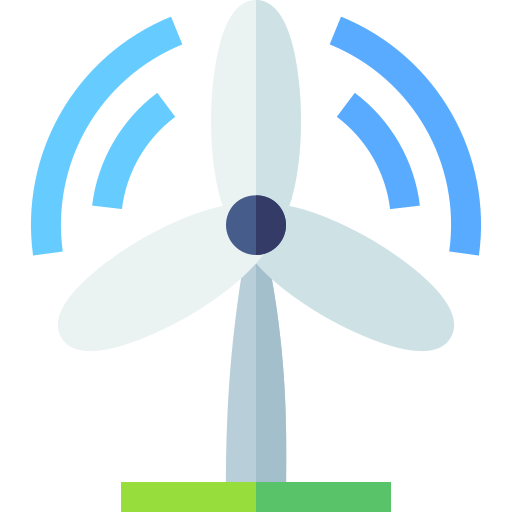
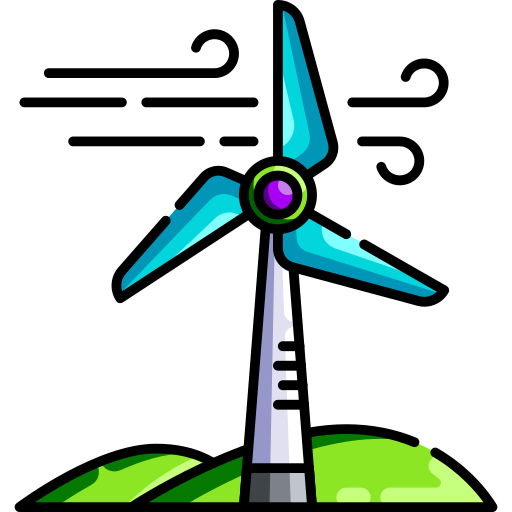
frontend added ListData

diff --git a/frontend/src/components/ListData.js b/frontend/src/components/ListData.js
@@ -1,0 +1,63 @@
+import React from "react";
+import Table from "react-bootstrap/Table";
+
+export default function ListData(props) {
+  return (
+    <>
+      <select>
+        <option>Power Plants</option>
+        <option>Cities</option>
+      </select>
+      <Table striped bordered hover size="sm" variant="dark">
+        <thead>
+          <tr>
+            <th>ID</th>
+            <th>Name</th>
+            <th>Country</th>
+            <th>Primary Fuel</th>
+            <th>Capacity (Megawatts)</th>
+            <th>Latitude</th>
+            <th>Longitude</th>
+          </tr>
+        </thead>
+        <tbody>
+          {props.powerplants.map((powerplant) => (
+            <tr key={powerplant.id}>
+              <td>{powerplant.id}</td>
+              <td>{powerplant.name}</td>
+              <td>{powerplant.country}</td>
+              <td>{powerplant.primary_fuel}</td>
+              <td>{parseFloat(powerplant.capacity_mw)}</td>
+              <td>{powerplant.latitude}</td>
+              <td>{powerplant.longitude}</td>
+            </tr>
+          ))}
+        </tbody>
+      </Table>
+      <Table striped bordered hover size="sm" variant="dark">
+        <thead>
+          <tr>
+            <th>ID</th>
+            <th>Name</th>
+            <th>Country</th>
+            <th>Population</th>
+            <th>Latitude</th>
+            <th>Longitude</th>
+          </tr>
+        </thead>
+        <tbody>
+          {props.cities.map((city) => (
+            <tr key={city.id}>
+              <td>{city.id}</td>
+              <td>{city.name}</td>
+              <td>{city.country}</td>
+              <td>{Math.floor(city.population)}</td>
+              <td>{city.latitude}</td>
+              <td>{city.longitude}</td>
+            </tr>
+          ))}
+        </tbody>
+      </Table>
+    </>
+  );
+}

diff --git a/frontend/src/components/WorldMap.js b/frontend/src/components/WorldMap.js
@@ -1,5 +1,4 @@
 import React from "react";
-import { useState } from "react";
 import {
   MapContainer,
   TileLayer,
@@ -11,19 +10,11 @@ import "leaflet/dist/leaflet.css";
 import PowerPlantMarkers from "./PowerPlantMarkers";
 import CityMarkers from "./CityMarkers";
 import ChangeMapCenter from "./ChangeMapCenter";
-import Legend from "./Legend";
 
 export default function WorldMap(props) {
-  const [map, setMap] = useState(null);
-
   return (
     <>
-      <MapContainer
-        center={props.coordinates}
-        zoom={5}
-        scrollWheelZoom={true}
-        whenCreated={setMap}
-      >
+      <MapContainer center={props.coordinates} zoom={5} scrollWheelZoom={true}>
         <ChangeMapCenter center={props.coordinates} zoom={5} />
         <TileLayer
           attribution='&copy; <a href="https://www.openstreetmap.org/copyright">OpenStreetMap</a> contributors'
@@ -33,16 +24,15 @@ export default function WorldMap(props) {
         <LayersControl position="topright">
           <LayersControl.Overlay name="Power Plants">
             <LayerGroup>
-              <PowerPlantMarkers country={props.location} />
+              <PowerPlantMarkers powerplants={props.powerplants} />
             </LayerGroup>
           </LayersControl.Overlay>
           <LayersControl.Overlay name="Cities">
             <LayerGroup>
-              <CityMarkers country={props.location} />
+              <CityMarkers cities={props.cities} />
             </LayerGroup>
           </LayersControl.Overlay>
         </LayersControl>
-        <Legend map={map} />
       </MapContainer>
     </>
   );

diff --git a/frontend/src/App.js b/frontend/src/App.js
@@ -1,10 +1,15 @@
 import "./App.css";
-import { useState, useRef } from "react";
+import { useState, useRef, useEffect } from "react";
+import axios from "axios";
 import WorldMap from "./components/WorldMap";
+import ListData from "./components/ListData";
 
 function App() {
   const [location, setLocation] = useState("AUS");
   const [coordinates, setCoordinates] = useState([-27, 133]);
+  const [cities, setCities] = useState([]);
+  const [powerplants, setPowerplants] = useState([]);
+
   const inputRef = useRef(null);
 
   const handleClick = () => {
@@ -16,12 +21,26 @@ function App() {
     setCoordinates([coordinates.latitude, coordinates.longitude]);
   };
 
+  useEffect(() => {
+    axios
+      .get(`http://localhost:8000/api/cities/?search=${location}`)
+      .then((response) => setCities(response.data));
+
+    axios
+      .get(`http://localhost:8000/api/powerplants/?search=${location}`)
+      .then((response) => setPowerplants(response.data));
+  }, [location]);
+
   return (
     <div>
       <input ref={inputRef} type="text" id="location" name="location" />
       <button onClick={handleClick}>Submit</button>
-
-      <WorldMap location={location} coordinates={coordinates} />
+      <ListData powerplants={powerplants} cities={cities} />
+      {/* <WorldMap
+        coordinates={coordinates}
+        powerplants={powerplants}
+        cities={cities}
+      /> */}
     </div>
   );
 }

diff --git a/frontend/src/components/Legend.js b/frontend/src/components/Legend.js
@@ -1,6 +1,35 @@
 import { useEffect } from "react";
+import { useMap } from "react-leaflet";
 import L from "leaflet";
+import biomass from "../img/biomass.png";
+import coal from "../img/coal.png";
+import cogeneration from "../img/cogeneration.png";
+import gas from "../img/gas.png";
+import geothermal from "../img/geothermal.png";
+import hydro from "../img/hydro.png";
+import nuclear from "../img/nuclear.png";
+import oil from "../img/oil.png";
+import solar from "../img/solar.png";
+import storage from "../img/storage.png";
+import wind from "../img/wind.png";
+import waste from "../img/waste.png";
+import wave from "../img/wave.png";
 
-export default function Legend({ map }) {
+export default function Legend() {
+  const map = useMap();
+  useEffect(() => {
+    if (map) {
+      const legend = L.control({ position: "bottomright" });
+
+      legend.onAdd = () => {
+        const div = L.DomUtil.create("div", "info legend");
+        div.innerHTML = "legend";
+
+        return div;
+      };
+
+      legend.addTo(map);
+    }
+  }, [map]);
   return null;
 }

diff --git a/frontend/src/components/PowerPlantMarkers.js b/frontend/src/components/PowerPlantMarkers.js
@@ -1,6 +1,4 @@
 import React from "react";
-import { useState, useEffect } from "react";
-import axios from "axios";
 import { Marker, Popup } from "react-leaflet";
 import { Icon } from "leaflet";
 import "./WorldMap.css";
@@ -20,7 +18,6 @@ import waste from "../img/waste.png";
 import wave from "../img/wave.png";
 
 export default function PowerPlantMarkers(props) {
-  const [powerplants, setPowerplants] = useState([]);
   const iconSize = [25, 25];
 
   const biomassIcon = new Icon({
@@ -123,15 +120,9 @@ export default function PowerPlantMarkers(props) {
     }
   }
 
-  useEffect(() => {
-    axios
-      .get(`http://localhost:8000/api/powerplants/?search=${props.country}`)
-      .then((response) => setPowerplants(response.data));
-  }, [props.country]);
-
   return (
     <>
-      {powerplants.map((powerplant) => (
+      {props.powerplants.map((powerplant) => (
         <Marker
           key={powerplant.id}
           position={[powerplant.latitude, powerplant.longitude]}

diff --git a/frontend/src/components/CityMarkers.js b/frontend/src/components/CityMarkers.js
@@ -1,6 +1,4 @@
 import React from "react";
-import { useState, useEffect } from "react";
-import axios from "axios";
 import { Marker, Popup } from "react-leaflet";
 import { Icon } from "leaflet";
 import "./WorldMap.css";
@@ -8,22 +6,14 @@ import "leaflet/dist/leaflet.css";
 import city from "../img/city.png";
 
 export default function CityMarkers(props) {
-  const [cities, setCities] = useState([]);
-
   const cityIcon = new Icon({
     iconUrl: city,
     iconSize: [20, 20],
   });
 
-  useEffect(() => {
-    axios
-      .get(`http://localhost:8000/api/cities/?search=${props.country}`)
-      .then((response) => setCities(response.data));
-  }, [props.country]);
-
   return (
     <>
-      {cities.map((city) => (
+      {props.cities.map((city) => (
         <Marker
           key={city.id}
           position={[city.latitude, city.longitude]}

diff --git a/frontend/src/index.js b/frontend/src/index.js
@@ -2,6 +2,7 @@ import React from "react";
 import ReactDOM from "react-dom/client";
 import "./index.css";
 import App from "./App";
+import "bootstrap/dist/css/bootstrap.min.css";
 
 const root = ReactDOM.createRoot(document.getElementById("root"));
 root.render(

diff --git a/README.md b/README.md
@@ -17,7 +17,7 @@ Icons
 
 <a href="https://www.flaticon.com/free-icons/solar-panel" title="solar panel icons">Solar panel icons created by Freepik - Flaticon</a>
 
-<a href="https://www.flaticon.com/free-icons/wind-turbine" title="wind turbine icons">Wind turbine icons created by Freepik - Flaticon</a>
+<a href="https://www.flaticon.com/free-icons/wind-turbine" title="wind turbine icons">Wind turbine icons created by Graphiqa - Flaticon</a>
 
 <a href="https://www.flaticon.com/free-icons/oil" title="oil icons">Oil icons created by Icongeek26 - Flaticon</a>
 
